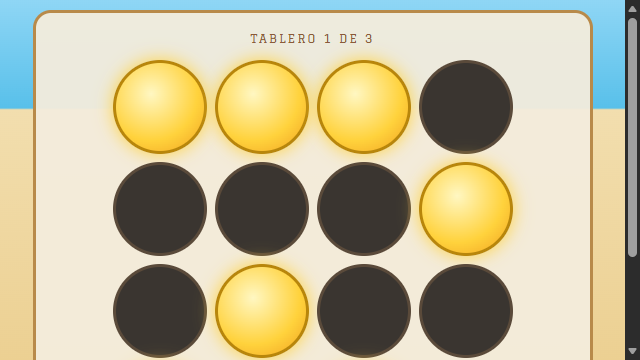
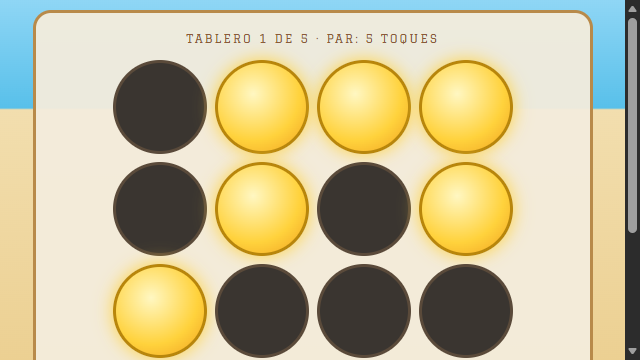
Fotos de los juegos actualizadas; sin barras en modo captura

diff --git a/src/estilos.css b/src/estilos.css
@@ -478,3 +478,7 @@ body.foto .bolos-efecto { display: none; }
 .mando-accion.segunda { bottom: calc(84px + env(safe-area-inset-bottom, 0px)); background: rgba(255, 176, 46, .85); padding: 12px 18px; font-size: .95rem; }
 .camara-boton { position: absolute; right: 12px; top: 56px; padding: 5px 12px; font-size: .86rem; background: rgba(28, 44, 77, .88); z-index: 5; }
 body.foto .camara-boton, body.foto .mando-accion { display: none; }
+
+/* Capturas: sin barras de desplazamiento */
+body.foto, body.foto * { scrollbar-width: none; }
+body.foto ::-webkit-scrollbar { display: none; }
